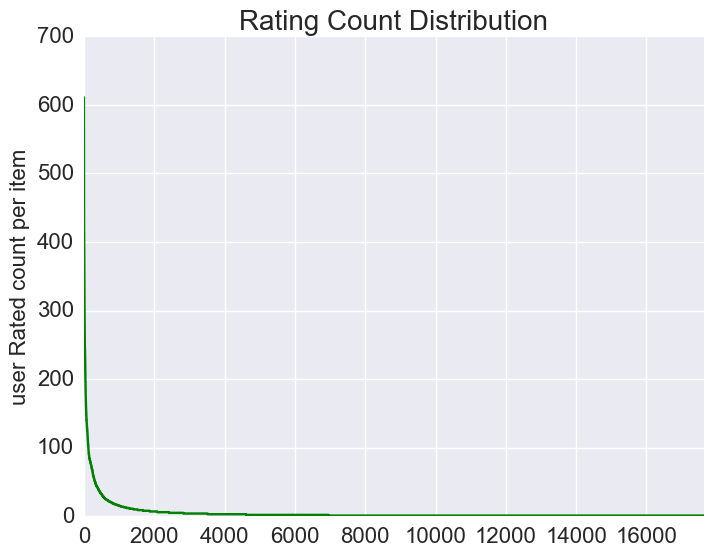
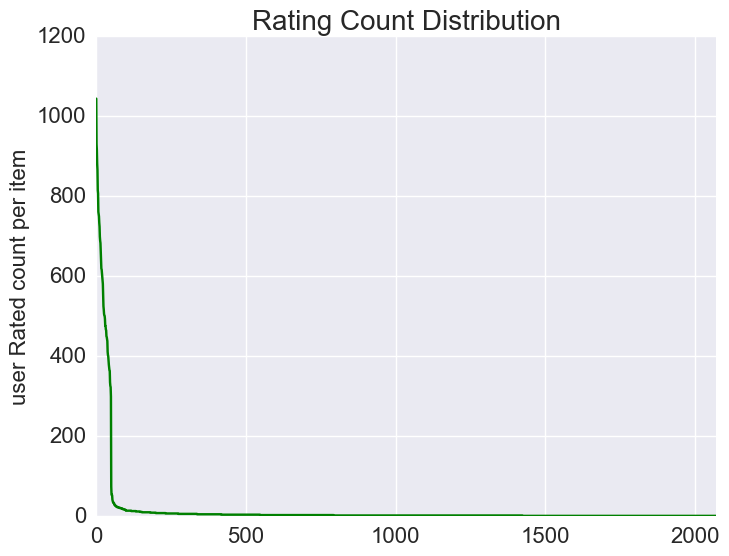
add robustness

diff --git a/visual/visualization/analysis.html b/visual/visualization/analysis.html
@@ -2,9 +2,9 @@
 <link rel='stylesheet' type='text/css' href='reportStyle.css'/></head>
 <body><div class='reportTitle'><div class='in'>Data Analysis</div></div>
 <div class='main'><div class='area1'>
-<div class='title'><h3>Data Files</h3></div><div class='text'>Rating Data: C:\Users\Yu\Desktop\RecQ\dataset\lastfm-2k\user_artists.dat<br>Social Data: C:\Users\Yu\Desktop\RecQ\dataset\FilmTrust\trust.txt</div></div><div style='padding-top:20px'><center><img src='images/header2.png'/></center></div>
+<div class='title'><h3>Data Files</h3></div><div class='text'>Rating Data: C:\Users\Yu\Desktop\RecQ\dataset\FilmTrust\ratings.txt<br>Social Data: C:\Users\Yu\Desktop\RecQ\dataset\FilmTrust\trust.txt</div></div><div style='padding-top:20px'><center><img src='images/header2.png'/></center></div>
 <div class='area1'><div class='title'><h3>Rating Data</h3></div>
-<div class='text'>Rating Scale: 1.0 2.0 3.0 4.0 5.0 6.0 7.0 8.0 9.0 10.0 11.0 12.0 13.0 14.0 15.0 16.0 17.0 18.0 19.0 20.0 21.0 22.0 23.0 24.0 25.0 26.0 27.0 28.0 29.0 30.0 31.0 32.0 33.0 34.0 35.0 36.0 37.0 38.0 39.0 40.0 41.0 42.0 43.0 44.0 45.0 46.0 47.0 48.0 49.0 50.0 51.0 52.0 53.0 54.0 55.0 56.0 57.0 58.0 59.0 60.0 61.0 62.0 63.0 64.0 65.0 66.0 67.0 68.0 69.0 70.0 71.0 72.0 73.0 74.0 75.0 76.0 77.0 78.0 79.0 80.0 81.0 82.0 83.0 84.0 85.0 86.0 87.0 88.0 89.0 90.0 91.0 92.0 93.0 94.0 95.0 96.0 97.0 98.0 99.0 100.0 101.0 102.0 103.0 104.0 105.0 106.0 107.0 108.0 109.0 110.0 111.0 112.0 113.0 114.0 115.0 116.0 117.0 118.0 119.0 120.0 121.0 122.0 123.0 124.0 125.0 126.0 127.0 128.0 129.0 130.0 131.0 132.0 133.0 134.0 135.0 136.0 137.0 138.0 139.0 140.0 141.0 142.0 143.0 144.0 145.0 146.0 147.0 148.0 149.0 150.0 151.0 152.0 153.0 154.0 155.0 156.0 157.0 158.0 159.0 160.0 161.0 162.0 163.0 164.0 165.0 166.0 167.0 168.0 169.0 170.0 171.0 172.0 173.0 174.0 175.0 176.0 177.0 178.0 179.0 180.0 181.0 182.0 183.0 184.0 185.0 186.0 187.0 188.0 189.0 190.0 191.0 192.0 193.0 194.0 195.0 196.0 197.0 198.0 199.0 200.0 201.0 202.0 203.0 204.0 205.0 206.0 207.0 208.0 209.0 210.0 211.0 212.0 213.0 214.0 215.0 216.0 217.0 218.0 219.0 220.0 221.0 222.0 223.0 224.0 225.0 226.0 227.0 228.0 229.0 230.0 231.0 232.0 233.0 234.0 235.0 236.0 237.0 238.0 239.0 240.0 241.0 242.0 243.0 244.0 245.0 246.0 247.0 248.0 249.0 250.0 251.0 252.0 253.0 254.0 255.0 256.0 257.0 258.0 259.0 260.0 261.0 262.0 263.0 264.0 265.0 266.0 267.0 268.0 269.0 270.0 271.0 272.0 273.0 274.0 275.0 276.0 277.0 278.0 279.0 280.0 281.0 282.0 283.0 284.0 285.0 286.0 287.0 288.0 289.0 290.0 291.0 292.0 293.0 294.0 295.0 296.0 297.0 298.0 299.0 300.0 301.0 302.0 303.0 304.0 305.0 306.0 307.0 308.0 309.0 310.0 311.0 312.0 313.0 314.0 315.0 316.0 317.0 318.0 319.0 320.0 321.0 322.0 323.0 324.0 325.0 326.0 327.0 328.0 329.0 330.0 331.0 332.0 333.0 334.0 335.0 336.0 337.0 338.0 339.0 340.0 341.0 342.0 343.0 344.0 345.0 346.0 347.0 348.0 349.0 350.0 351.0 352.0 353.0 354.0 355.0 356.0 357.0 358.0 359.0 360.0 361.0 362.0 363.0 364.0 365.0 366.0 367.0 368.0 369.0 370.0 371.0 372.0 373.0 374.0 375.0 376.0 377.0 378.0 379.0 380.0 381.0 382.0 383.0 384.0 385.0 386.0 387.0 388.0 389.0 390.0 391.0 392.0 393.0 394.0 395.0 396.0 397.0 398.0 399.0 400.0 401.0 402.0 403.0 404.0 405.0 406.0 407.0 408.0 409.0 410.0 411.0 412.0 413.0 414.0 415.0 416.0 417.0 418.0 419.0 420.0 421.0 422.0 423.0 424.0 425.0 426.0 427.0 428.0 429.0 430.0 431.0 432.0 433.0 434.0 435.0 436.0 437.0 438.0 439.0 440.0 441.0 442.0 443.0 444.0 445.0 446.0 447.0 448.0 449.0 450.0 451.0 452.0 453.0 454.0 455.0 456.0 457.0 458.0 459.0 460.0 461.0 462.0 463.0 464.0 465.0 466.0 467.0 468.0 469.0 470.0 471.0 472.0 473.0 474.0 475.0 476.0 477.0 478.0 479.0 480.0 481.0 482.0 483.0 484.0 485.0 486.0 487.0 488.0 489.0 490.0 491.0 492.0 493.0 494.0 495.0 496.0 497.0 498.0 499.0 500.0 501.0 502.0 503.0 504.0 505.0 506.0 507.0 508.0 509.0 510.0 511.0 512.0 513.0 514.0 515.0 516.0 517.0 518.0 519.0 520.0 521.0 522.0 523.0 524.0 525.0 526.0 527.0 528.0 529.0 530.0 531.0 532.0 533.0 534.0 535.0 536.0 537.0 538.0 539.0 540.0 541.0 542.0 543.0 544.0 545.0 546.0 547.0 548.0 549.0 550.0 551.0 552.0 553.0 554.0 555.0 556.0 557.0 558.0 559.0 560.0 561.0 562.0 563.0 564.0 565.0 566.0 567.0 568.0 569.0 570.0 571.0 572.0 573.0 574.0 575.0 576.0 577.0 578.0 579.0 580.0 581.0 582.0 583.0 584.0 585.0 586.0 587.0 588.0 589.0 590.0 591.0 592.0 593.0 594.0 595.0 596.0 597.0 598.0 599.0 600.0 601.0 602.0 603.0 604.0 605.0 606.0 607.0 608.0 609.0 610.0 611.0 612.0 613.0 614.0 615.0 616.0 617.0 618.0 619.0 620.0 621.0 622.0 623.0 624.0 625.0 626.0 627.0 628.0 629.0 630.0 631.0 632.0 633.0 634.0 635.0 636.0 637.0 638.0 639.0 640.0 641.0 642.0 643.0 644.0 645.0 646.0 647.0 648.0 649.0 650.0 651.0 652.0 653.0 654.0 655.0 656.0 657.0 658.0 659.0 660.0 661.0 662.0 663.0 664.0 665.0 666.0 667.0 668.0 669.0 670.0 671.0 672.0 673.0 674.0 675.0 676.0 677.0 678.0 679.0 680.0 681.0 682.0 683.0 684.0 685.0 686.0 687.0 688.0 689.0 690.0 691.0 692.0 693.0 694.0 695.0 696.0 697.0 698.0 699.0 700.0 701.0 702.0 703.0 704.0 705.0 706.0 707.0 708.0 709.0 710.0 711.0 712.0 713.0 714.0 715.0 716.0 717.0 718.0 719.0 720.0 721.0 722.0 723.0 724.0 725.0 726.0 727.0 728.0 729.0 730.0 731.0 732.0 733.0 734.0 735.0 736.0 737.0 738.0 739.0 740.0 741.0 742.0 743.0 744.0 745.0 746.0 747.0 748.0 749.0 750.0 751.0 752.0 753.0 754.0 755.0 756.0 757.0 758.0 759.0 760.0 761.0 762.0 763.0 764.0 765.0 766.0 767.0 768.0 769.0 770.0 771.0 772.0 773.0 774.0 775.0 776.0 777.0 778.0 779.0 780.0 781.0 782.0 783.0 784.0 785.0 786.0 787.0 788.0 789.0 790.0 791.0 792.0 793.0 794.0 795.0 796.0 797.0 798.0 799.0 800.0 801.0 802.0 803.0 804.0 805.0 806.0 807.0 808.0 809.0 810.0 811.0 812.0 813.0 814.0 815.0 816.0 817.0 818.0 819.0 820.0 821.0 822.0 823.0 824.0 825.0 826.0 827.0 828.0 829.0 830.0 831.0 832.0 833.0 834.0 835.0 836.0 837.0 838.0 839.0 840.0 841.0 842.0 843.0 844.0 845.0 846.0 847.0 848.0 849.0 850.0 851.0 852.0 853.0 854.0 855.0 856.0 857.0 858.0 859.0 860.0 861.0 862.0 863.0 864.0 865.0 866.0 867.0 868.0 869.0 870.0 871.0 872.0 873.0 874.0 875.0 876.0 877.0 878.0 879.0 880.0 881.0 882.0 883.0 884.0 885.0 886.0 887.0 888.0 889.0 890.0 891.0 892.0 893.0 894.0 895.0 896.0 897.0 898.0 899.0 900.0 901.0 902.0 903.0 904.0 905.0 906.0 907.0 908.0 909.0 910.0 911.0 912.0 913.0 914.0 915.0 916.0 917.0 918.0 919.0 920.0 921.0 922.0 923.0 924.0 925.0 926.0 927.0 928.0 929.0 930.0 931.0 932.0 933.0 934.0 935.0 936.0 937.0 938.0 939.0 940.0 941.0 942.0 943.0 944.0 945.0 946.0 947.0 948.0 949.0 950.0 951.0 952.0 953.0 954.0 955.0 956.0 957.0 958.0 959.0 960.0 961.0 962.0 963.0 964.0 965.0 966.0 967.0 968.0 969.0 970.0 971.0 972.0 973.0 974.0 975.0 976.0 977.0 978.0 979.0 980.0 981.0 982.0 983.0 984.0 985.0 986.0 987.0 988.0 989.0 990.0 991.0 992.0 993.0 994.0 995.0 996.0 997.0 998.0 999.0 1000.0 1001.0 1002.0 1003.0 1004.0 1005.0 1006.0 1007.0 1008.0 1009.0 1010.0 1011.0 1012.0 1013.0 1014.0 1015.0 1016.0 1017.0 1018.0 1019.0 1020.0 1021.0 1022.0 1023.0 1024.0 1025.0 1026.0 1027.0 1028.0 1029.0 1030.0 1031.0 1032.0 1033.0 1034.0 1035.0 1036.0 1037.0 1038.0 1039.0 1040.0 1041.0 1042.0 1043.0 1044.0 1045.0 1046.0 1047.0 1048.0 1049.0 1050.0 1051.0 1052.0 1053.0 1054.0 1055.0 1056.0 1057.0 1058.0 1059.0 1060.0 1061.0 1062.0 1063.0 1064.0 1065.0 1066.0 1067.0 1068.0 1069.0 1070.0 1071.0 1072.0 1073.0 1074.0 1075.0 1076.0 1077.0 1078.0 1079.0 1080.0 1081.0 1082.0 1083.0 1084.0 1085.0 1086.0 1087.0 1088.0 1089.0 1090.0 1091.0 1092.0 1093.0 1094.0 1095.0 1096.0 1097.0 1098.0 1099.0 1100.0 1101.0 1102.0 1103.0 1104.0 1105.0 1106.0 1107.0 1108.0 1109.0 1110.0 1111.0 1112.0 1113.0 1114.0 1115.0 1116.0 1117.0 1118.0 1119.0 1120.0 1121.0 1122.0 1123.0 1124.0 1125.0 1126.0 1127.0 1128.0 1129.0 1130.0 1131.0 1132.0 1133.0 1134.0 1135.0 1136.0 1137.0 1138.0 1139.0 1140.0 1141.0 1142.0 1143.0 1144.0 1145.0 1146.0 1147.0 1148.0 1149.0 1150.0 1151.0 1152.0 1153.0 1154.0 1155.0 1156.0 1157.0 1158.0 1159.0 1160.0 1161.0 1162.0 1163.0 1164.0 1165.0 1166.0 1167.0 1168.0 1169.0 1170.0 1171.0 1172.0 1173.0 1174.0 1175.0 1176.0 1177.0 1178.0 1179.0 1180.0 1181.0 1182.0 1183.0 1184.0 1185.0 1186.0 1187.0 1188.0 1189.0 1190.0 1191.0 1192.0 1193.0 1194.0 1195.0 1196.0 1197.0 1198.0 1199.0 1200.0 1201.0 1202.0 1203.0 1204.0 1205.0 1206.0 1207.0 1208.0 1209.0 1210.0 1211.0 1212.0 1213.0 1214.0 1215.0 1216.0 1217.0 1218.0 1219.0 1220.0 1221.0 1222.0 1223.0 1224.0 1225.0 1226.0 1227.0 1228.0 1229.0 1230.0 1231.0 1232.0 1233.0 1234.0 1235.0 1236.0 1237.0 1238.0 1239.0 1240.0 1241.0 1242.0 1243.0 1244.0 1245.0 1246.0 1247.0 1248.0 1249.0 1250.0 1251.0 1252.0 1253.0 1254.0 1255.0 1256.0 1257.0 1258.0 1259.0 1260.0 1261.0 1262.0 1263.0 1264.0 1265.0 1266.0 1267.0 1268.0 1269.0 1270.0 1271.0 1272.0 1273.0 1274.0 1275.0 1276.0 1277.0 1278.0 1279.0 1280.0 1281.0 1282.0 1283.0 1284.0 1285.0 1286.0 1287.0 1288.0 1289.0 1290.0 1291.0 1292.0 1293.0 1294.0 1295.0 1296.0 1297.0 1298.0 1299.0 1300.0 1301.0 1302.0 1303.0 1304.0 1305.0 1306.0 1307.0 1308.0 1309.0 1310.0 1311.0 1312.0 1313.0 1314.0 1315.0 1316.0 1317.0 1318.0 1319.0 1320.0 1321.0 1322.0 1323.0 1324.0 1325.0 1326.0 1327.0 1328.0 1329.0 1330.0 1331.0 1332.0 1333.0 1334.0 1335.0 1336.0 1337.0 1338.0 1339.0 1340.0 1341.0 1342.0 1343.0 1344.0 1345.0 1346.0 1347.0 1348.0 1349.0 1350.0 1351.0 1352.0 1353.0 1354.0 1355.0 1356.0 1357.0 1358.0 1359.0 1360.0 1361.0 1362.0 1363.0 1364.0 1365.0 1366.0 1367.0 1368.0 1369.0 1370.0 1371.0 1372.0 1373.0 1374.0 1375.0 1376.0 1377.0 1378.0 1379.0 1380.0 1381.0 1382.0 1383.0 1384.0 1385.0 1386.0 1387.0 1388.0 1389.0 1390.0 1391.0 1392.0 1393.0 1394.0 1395.0 1396.0 1397.0 1398.0 1399.0 1400.0 1401.0 1402.0 1403.0 1404.0 1405.0 1406.0 1407.0 1408.0 1409.0 1410.0 1411.0 1412.0 1413.0 1414.0 1415.0 1416.0 1417.0 1418.0 1419.0 1420.0 1421.0 1422.0 1423.0 1424.0 1425.0 1426.0 1427.0 1428.0 1429.0 1430.0 1431.0 1432.0 1433.0 1434.0 1435.0 1436.0 1437.0 1438.0 1439.0 1440.0 1441.0 1442.0 1443.0 1444.0 1445.0 1446.0 1447.0 1448.0 1449.0 1450.0 1451.0 1452.0 1453.0 1454.0 1455.0 1456.0 1457.0 1458.0 1459.0 1460.0 1461.0 1462.0 1463.0 1464.0 1465.0 1466.0 1467.0 1468.0 1469.0 1470.0 1471.0 1472.0 1473.0 1474.0 1475.0 1476.0 1477.0 1478.0 1479.0 1480.0 1481.0 1482.0 1483.0 1484.0 1485.0 1486.0 1487.0 1488.0 1489.0 1490.0 1491.0 1492.0 1493.0 1494.0 1495.0 1496.0 1497.0 1498.0 1499.0 1500.0 1501.0 1502.0 1503.0 1504.0 1505.0 1506.0 1507.0 1508.0 1509.0 1510.0 1511.0 1512.0 1513.0 1514.0 1515.0 1516.0 1517.0 1518.0 1519.0 1520.0 1521.0 1522.0 1523.0 1524.0 1525.0 1526.0 1527.0 1528.0 1529.0 1530.0 1531.0 1532.0 1533.0 1534.0 1535.0 1536.0 1537.0 1538.0 1539.0 1540.0 1541.0 1542.0 1543.0 1544.0 1545.0 1546.0 1547.0 1548.0 1549.0 1550.0 1551.0 1552.0 1553.0 1554.0 1555.0 1556.0 1557.0 1558.0 1559.0 1560.0 1561.0 1562.0 1563.0 1564.0 1565.0 1566.0 1567.0 1568.0 1569.0 1570.0 1571.0 1572.0 1573.0 1574.0 1575.0 1576.0 1577.0 1578.0 1579.0 1580.0 1581.0 1582.0 1583.0 1584.0 1585.0 1586.0 1587.0 1588.0 1589.0 1590.0 1591.0 1592.0 1593.0 1594.0 1595.0 1596.0 1597.0 1598.0 1599.0 1600.0 1601.0 1602.0 1603.0 1604.0 1605.0 1606.0 1607.0 1608.0 1609.0 1610.0 1611.0 1612.0 1613.0 1614.0 1615.0 1616.0 1617.0 1618.0 1619.0 1620.0 1621.0 1622.0 1623.0 1624.0 1625.0 1626.0 1627.0 1628.0 1629.0 1630.0 1631.0 1632.0 1633.0 1634.0 1635.0 1636.0 1637.0 1638.0 1639.0 1640.0 1641.0 1642.0 1643.0 1644.0 1645.0 1646.0 1647.0 1648.0 1649.0 1650.0 1651.0 1652.0 1653.0 1654.0 1655.0 1656.0 1657.0 1658.0 1659.0 1660.0 1661.0 1662.0 1663.0 1664.0 1665.0 1666.0 1667.0 1668.0 1669.0 1670.0 1671.0 1672.0 1673.0 1674.0 1675.0 1676.0 1677.0 1678.0 1679.0 1680.0 1681.0 1682.0 1683.0 1684.0 1685.0 1686.0 1687.0 1688.0 1689.0 1690.0 1691.0 1692.0 1693.0 1694.0 1695.0 1696.0 1697.0 1698.0 1699.0 1700.0 1701.0 1702.0 1703.0 1704.0 1705.0 1706.0 1707.0 1708.0 1709.0 1710.0 1711.0 1712.0 1713.0 1714.0 1715.0 1716.0 1717.0 1718.0 1719.0 1720.0 1721.0 1722.0 1723.0 1724.0 1725.0 1726.0 1727.0 1728.0 1729.0 1730.0 1731.0 1732.0 1733.0 1734.0 1735.0 1736.0 1737.0 1738.0 1739.0 1740.0 1741.0 1742.0 1743.0 1744.0 1745.0 1746.0 1747.0 1748.0 1749.0 1750.0 1751.0 1752.0 1753.0 1754.0 1755.0 1756.0 1757.0 1758.0 1759.0 1760.0 1761.0 1762.0 1763.0 1764.0 1765.0 1766.0 1767.0 1768.0 1769.0 1770.0 1771.0 1772.0 1773.0 1774.0 1775.0 1776.0 1777.0 1778.0 1779.0 1780.0 1781.0 1782.0 1783.0 1784.0 1785.0 1786.0 1787.0 1788.0 1789.0 1790.0 1791.0 1792.0 1793.0 1794.0 1795.0 1796.0 1797.0 1798.0 1799.0 1800.0 1801.0 1802.0 1803.0 1804.0 1805.0 1806.0 1807.0 1808.0 1809.0 1810.0 1811.0 1812.0 1813.0 1814.0 1815.0 1816.0 1817.0 1818.0 1819.0 1820.0 1821.0 1822.0 1823.0 1824.0 1825.0 1826.0 1827.0 1828.0 1829.0 1831.0 1832.0 1833.0 1834.0 1835.0 1836.0 1837.0 1838.0 1839.0 1840.0 1841.0 1842.0 1843.0 1844.0 1845.0 1846.0 1847.0 1848.0 1849.0 1850.0 1851.0 1852.0 1853.0 1854.0 1855.0 1856.0 1857.0 1858.0 1859.0 1860.0 1861.0 1862.0 1863.0 1864.0 1865.0 1866.0 1867.0 1868.0 1869.0 1870.0 1871.0 1872.0 1873.0 1874.0 1875.0 1876.0 1877.0 1878.0 1879.0 1880.0 1881.0 1882.0 1883.0 1884.0 1885.0 1886.0 1888.0 1889.0 1890.0 1891.0 1892.0 1893.0 1894.0 1895.0 1896.0 1897.0 1898.0 1899.0 1901.0 1902.0 1903.0 1904.0 1905.0 1906.0 1907.0 1908.0 1909.0 1910.0 1911.0 1912.0 1913.0 1914.0 1915.0 1916.0 1917.0 1918.0 1919.0 1920.0 1921.0 1922.0 1923.0 1924.0 1925.0 1927.0 1928.0 1929.0 1930.0 1931.0 1932.0 1933.0 1934.0 1935.0 1936.0 1937.0 1938.0 1939.0 1940.0 1941.0 1942.0 1943.0 1944.0 1945.0 1946.0 1947.0 1948.0 1949.0 1950.0 1951.0 1952.0 1953.0 1954.0 1955.0 1956.0 1957.0 1958.0 1959.0 1960.0 1961.0 1962.0 1963.0 1964.0 1965.0 1966.0 1967.0 1968.0 1969.0 1970.0 1971.0 1972.0 1973.0 1974.0 1975.0 1976.0 1977.0 1978.0 1979.0 1980.0 1981.0 1982.0 1983.0 1984.0 1985.0 1986.0 1987.0 1988.0 1989.0 1990.0 1991.0 1992.0 1993.0 1994.0 1995.0 1996.0 1997.0 1998.0 1999.0 2000.0 2001.0 2002.0 2003.0 2004.0 2005.0 2006.0 2007.0 2008.0 2009.0 2010.0 2011.0 2012.0 2013.0 2014.0 2015.0 2016.0 2017.0 2018.0 2019.0 2020.0 2021.0 2022.0 2023.0 2024.0 2025.0 2026.0 2027.0 2028.0 2029.0 2030.0 2031.0 2032.0 2033.0 2034.0 2035.0 2036.0 2037.0 2038.0 2039.0 2040.0 2041.0 2042.0 2043.0 2044.0 2045.0 2046.0 2047.0 2048.0 2049.0 2050.0 2051.0 2052.0 2053.0 2054.0 2055.0 2056.0 2057.0 2058.0 2060.0 2061.0 2062.0 2063.0 2064.0 2066.0 2067.0 2068.0 2069.0 2070.0 2071.0 2072.0 2073.0 2074.0 2075.0 2076.0 2077.0 2078.0 2079.0 2081.0 2082.0 2083.0 2084.0 2085.0 2086.0 2087.0 2088.0 2089.0 2090.0 2091.0 2092.0 2093.0 2094.0 2095.0 2096.0 2097.0 2098.0 2099.0 2100.0 2101.0 2102.0 2103.0 2104.0 2107.0 2108.0 2109.0 2110.0 2111.0 2112.0 2113.0 2114.0 2115.0 2116.0 2117.0 2118.0 2119.0 2120.0 2121.0 2122.0 2123.0 2124.0 2125.0 2126.0 2127.0 2128.0 2129.0 2130.0 2131.0 2132.0 2134.0 2135.0 2136.0 2137.0 2138.0 2139.0 2140.0 2141.0 2142.0 2143.0 2144.0 2145.0 2146.0 2147.0 2148.0 2149.0 2150.0 2151.0 2152.0 2153.0 2154.0 2155.0 2156.0 2157.0 2158.0 2159.0 2160.0 2161.0 2162.0 2163.0 2164.0 2165.0 2166.0 2167.0 2168.0 2169.0 2170.0 2172.0 2173.0 2174.0 2175.0 2176.0 2177.0 2178.0 2179.0 2180.0 2181.0 2182.0 2183.0 2184.0 2185.0 2186.0 2187.0 2188.0 2190.0 2191.0 2192.0 2194.0 2196.0 2197.0 2199.0 2200.0 2201.0 2202.0 2203.0 2204.0 2205.0 2206.0 2207.0 2208.0 2209.0 2210.0 2211.0 2212.0 2213.0 2214.0 2215.0 2216.0 2217.0 2218.0 2219.0 2220.0 2221.0 2222.0 2223.0 2224.0 2225.0 2226.0 2227.0 2228.0 2229.0 2230.0 2231.0 2232.0 2233.0 2234.0 2235.0 2236.0 2237.0 2238.0 2239.0 2240.0 2241.0 2242.0 2243.0 2244.0 2245.0 2246.0 2247.0 2248.0 2249.0 2250.0 2251.0 2252.0 2253.0 2254.0 2255.0 2256.0 2257.0 2258.0 2259.0 2260.0 2261.0 2262.0 2264.0 2265.0 2266.0 2268.0 2269.0 2270.0 2271.0 2273.0 2274.0 2275.0 2276.0 2277.0 2278.0 2279.0 2280.0 2281.0 2282.0 2283.0 2284.0 2285.0 2286.0 2287.0 2288.0 2289.0 2290.0 2291.0 2292.0 2293.0 2294.0 2295.0 2297.0 2298.0 2299.0 2300.0 2301.0 2302.0 2303.0 2304.0 2305.0 2306.0 2307.0 2308.0 2309.0 2310.0 2311.0 2312.0 2313.0 2314.0 2315.0 2316.0 2317.0 2318.0 2319.0 2320.0 2321.0 2322.0 2323.0 2324.0 2325.0 2326.0 2327.0 2328.0 2329.0 2330.0 2331.0 2332.0 2333.0 2334.0 2335.0 2336.0 2337.0 2338.0 2339.0 2340.0 2341.0 2342.0 2343.0 2344.0 2345.0 2346.0 2347.0 2348.0 2349.0 2350.0 2351.0 2352.0 2354.0 2355.0 2356.0 2358.0 2359.0 2360.0 2361.0 2362.0 2363.0 2364.0 2365.0 2366.0 2367.0 2368.0 2369.0 2370.0 2371.0 2372.0 2373.0 2374.0 2375.0 2376.0 2377.0 2378.0 2379.0 2380.0 2381.0 2382.0 2383.0 2385.0 2386.0 2387.0 2388.0 2389.0 2390.0 2391.0 2392.0 2393.0 2394.0 2395.0 2396.0 2397.0 2398.0 2400.0 2401.0 2402.0 2403.0 2404.0 2405.0 2406.0 2407.0 2408.0 2409.0 2410.0 2411.0 2413.0 2414.0 2416.0 2417.0 2418.0 2419.0 2420.0 2421.0 2423.0 2424.0 2425.0 2426.0 2427.0 2428.0 2429.0 2430.0 2431.0 2432.0 2433.0 2434.0 2435.0 2436.0 2437.0 2438.0 2439.0 2440.0 2441.0 2442.0 2443.0 2444.0 2445.0 2446.0 2447.0 2448.0 2449.0 2451.0 2452.0 2453.0 2455.0 2456.0 2457.0 2458.0 2459.0 2460.0 2461.0 2462.0 2463.0 2464.0 2465.0 2466.0 2467.0 2468.0 2469.0 2470.0 2471.0 2472.0 2473.0 2474.0 2475.0 2477.0 2478.0 2479.0 2480.0 2481.0 2482.0 2484.0 2485.0 2486.0 2487.0 2488.0 2489.0 2490.0 2491.0 2492.0 2493.0 2495.0 2496.0 2497.0 2498.0 2499.0 2500.0 2501.0 2502.0 2503.0 2504.0 2505.0 2506.0 2507.0 2508.0 2509.0 2510.0 2511.0 2512.0 2513.0 2514.0 2515.0 2516.0 2517.0 2518.0 2519.0 2520.0 2521.0 2523.0 2524.0 2525.0 2526.0 2527.0 2528.0 2529.0 2530.0 2531.0 2532.0 2533.0 2534.0 2536.0 2538.0 2539.0 2540.0 2541.0 2542.0 2543.0 2544.0 2545.0 2546.0 2547.0 2548.0 2549.0 2550.0 2551.0 2552.0 2553.0 2554.0 2555.0 2556.0 2557.0 2558.0 2559.0 2560.0 2561.0 2562.0 2563.0 2564.0 2565.0 2566.0 2568.0 2569.0 2570.0 2571.0 2572.0 2573.0 2574.0 2576.0 2577.0 2578.0 2579.0 2580.0 2581.0 2582.0 2584.0 2586.0 2587.0 2588.0 2589.0 2590.0 2591.0 2592.0 2595.0 2596.0 2597.0 2598.0 2599.0 2600.0 2601.0 2602.0 2603.0 2605.0 2606.0 2607.0 2608.0 2609.0 2610.0 2611.0 2612.0 2613.0 2614.0 2615.0 2616.0 2617.0 2618.0 2619.0 2620.0 2621.0 2622.0 2623.0 2624.0 2625.0 2626.0 2627.0 2628.0 2629.0 2630.0 2631.0 2633.0 2634.0 2635.0 2636.0 2637.0 2638.0 2639.0 2640.0 2641.0 2642.0 2643.0 2644.0 2645.0 2646.0 2647.0 2648.0 2650.0 2651.0 2652.0 2653.0 2654.0 2655.0 2656.0 2658.0 2659.0 2660.0 2661.0 2662.0 2665.0 2666.0 2667.0 2668.0 2669.0 2670.0 2671.0 2672.0 2673.0 2674.0 2676.0 2677.0 2678.0 2679.0 2680.0 2683.0 2684.0 2686.0 2687.0 2688.0 2689.0 2690.0 2691.0 2692.0 2693.0 2694.0 2695.0 2696.0 2697.0 2699.0 2702.0 2703.0 2704.0 2705.0 2706.0 2707.0 2708.0 2710.0 2711.0 2712.0 2713.0 2715.0 2716.0 2717.0 2718.0 2719.0 2720.0 2721.0 2722.0 2723.0 2724.0 2725.0 2726.0 2727.0 2728.0 2729.0 2730.0 2731.0 2732.0 2734.0 2735.0 2736.0 2737.0 2738.0 2739.0 2740.0 2741.0 2742.0 2743.0 2744.0 2745.0 2746.0 2749.0 2750.0 2751.0 2753.0 2755.0 2757.0 2758.0 2759.0 2760.0 2762.0 2764.0 2765.0 2766.0 2767.0 2768.0 2770.0 2772.0 2773.0 2775.0 2776.0 2777.0 2778.0 2779.0 2780.0 2781.0 2782.0 2783.0 2784.0 2786.0 2787.0 2788.0 2789.0 2790.0 2793.0 2794.0 2795.0 2797.0 2798.0 2799.0 2800.0 2801.0 2804.0 2805.0 2806.0 2808.0 2809.0 2812.0 2813.0 2814.0 2818.0 2819.0 2821.0 2822.0 2823.0 2824.0 2825.0 2826.0 2827.0 2828.0 2830.0 2832.0 2833.0 2834.0 2835.0 2836.0 2837.0 2838.0 2840.0 2841.0 2842.0 2843.0 2844.0 2845.0 2846.0 2847.0 2848.0 2849.0 2850.0 2852.0 2853.0 2854.0 2855.0 2856.0 2857.0 2858.0 2859.0 2860.0 2861.0 2862.0 2863.0 2864.0 2865.0 2866.0 2868.0 2869.0 2870.0 2871.0 2873.0 2874.0 2876.0 2877.0 2879.0 2880.0 2881.0 2882.0 2883.0 2884.0 2887.0 2888.0 2889.0 2890.0 2891.0 2892.0 2893.0 2895.0 2896.0 2897.0 2898.0 2899.0 2900.0 2901.0 2902.0 2903.0 2904.0 2905.0 2906.0 2908.0 2909.0 2910.0 2911.0 2912.0 2913.0 2914.0 2918.0 2919.0 2921.0 2922.0 2923.0 2924.0 2925.0 2927.0 2928.0 2929.0 2930.0 2931.0 2932.0 2933.0 2935.0 2936.0 2937.0 2938.0 2939.0 2941.0 2942.0 2944.0 2946.0 2947.0 2948.0 2949.0 2951.0 2952.0 2953.0 2954.0 2955.0 2956.0 2960.0 2961.0 2962.0 2963.0 2964.0 2965.0 2967.0 2968.0 2969.0 2971.0 2972.0 2973.0 2974.0 2975.0 2976.0 2977.0 2978.0 2980.0 2981.0 2984.0 2985.0 2986.0 2987.0 2989.0 2990.0 2991.0 2992.0 2993.0 2994.0 2996.0 2998.0 2999.0 3000.0 3001.0 3002.0 3003.0 3004.0 3005.0 3006.0 3007.0 3008.0 3009.0 3010.0 3011.0 3014.0 3015.0 3016.0 3017.0 3018.0 3019.0 3020.0 3021.0 3022.0 3023.0 3024.0 3025.0 3026.0 3028.0 3030.0 3032.0 3033.0 3035.0 3036.0 3037.0 3039.0 3040.0 3041.0 3042.0 3043.0 3044.0 3045.0 3046.0 3048.0 3049.0 3050.0 3052.0 3054.0 3058.0 3059.0 3061.0 3062.0 3065.0 3066.0 3067.0 3068.0 3069.0 3070.0 3071.0 3072.0 3074.0 3075.0 3077.0 3080.0 3081.0 3083.0 3084.0 3085.0 3086.0 3087.0 3088.0 3089.0 3092.0 3095.0 3096.0 3097.0 3098.0 3100.0 3104.0 3105.0 3106.0 3107.0 3109.0 3110.0 3111.0 3112.0 3113.0 3114.0 3115.0 3116.0 3118.0 3119.0 3120.0 3121.0 3122.0 3123.0 3124.0 3125.0 3126.0 3127.0 3128.0 3129.0 3130.0 3131.0 3132.0 3133.0 3134.0 3136.0 3138.0 3139.0 3141.0 3142.0 3143.0 3144.0 3146.0 3147.0 3148.0 3149.0 3150.0 3151.0 3152.0 3153.0 3154.0 3156.0 3157.0 3158.0 3159.0 3160.0 3161.0 3163.0 3164.0 3166.0 3167.0 3169.0 3170.0 3171.0 3172.0 3173.0 3175.0 3176.0 3177.0 3178.0 3179.0 3181.0 3183.0 3184.0 3185.0 3186.0 3187.0 3189.0 3190.0 3191.0 3193.0 3195.0 3196.0 3197.0 3199.0 3200.0 3202.0 3203.0 3205.0 3206.0 3207.0 3208.0 3210.0 3213.0 3215.0 3216.0 3217.0 3218.0 3220.0 3221.0 3223.0 3224.0 3225.0 3226.0 3227.0 3229.0 3230.0 3232.0 3234.0 3235.0 3237.0 3239.0 3240.0 3241.0 3242.0 3244.0 3245.0 3246.0 3247.0 3248.0 3249.0 3251.0 3252.0 3253.0 3254.0 3255.0 3257.0 3258.0 3260.0 3261.0 3262.0 3263.0 3264.0 3265.0 3266.0 3267.0 3268.0 3269.0 3270.0 3271.0 3272.0 3273.0 3274.0 3275.0 3277.0 3278.0 3279.0 3280.0 3281.0 3286.0 3287.0 3288.0 3290.0 3291.0 3292.0 3293.0 3294.0 3295.0 3296.0 3300.0 3301.0 3302.0 3303.0 3304.0 3305.0 3307.0 3309.0 3310.0 3311.0 3312.0 3313.0 3314.0 3315.0 3318.0 3319.0 3320.0 3321.0 3323.0 3325.0 3326.0 3329.0 3331.0 3332.0 3333.0 3336.0 3338.0 3341.0 3343.0 3344.0 3347.0 3348.0 3349.0 3350.0 3352.0 3353.0 3354.0 3360.0 3361.0 3363.0 3364.0 3365.0 3366.0 3367.0 3369.0 3371.0 3372.0 3373.0 3374.0 3375.0 3376.0 3377.0 3379.0 3380.0 3381.0 3382.0 3384.0 3386.0 3388.0 3390.0 3391.0 3392.0 3393.0 3395.0 3396.0 3397.0 3398.0 3399.0 3400.0 3401.0 3403.0 3404.0 3405.0 3406.0 3407.0 3409.0 3411.0 3413.0 3416.0 3417.0 3418.0 3420.0 3422.0 3423.0 3425.0 3426.0 3428.0 3430.0 3434.0 3435.0 3436.0 3437.0 3439.0 3440.0 3443.0 3444.0 3445.0 3446.0 3448.0 3450.0 3455.0 3456.0 3457.0 3458.0 3459.0 3460.0 3462.0 3463.0 3465.0 3466.0 3468.0 3469.0 3470.0 3471.0 3472.0 3474.0 3475.0 3476.0 3477.0 3480.0 3481.0 3483.0 3484.0 3485.0 3486.0 3487.0 3488.0 3490.0 3491.0 3493.0 3496.0 3497.0 3498.0 3499.0 3500.0 3501.0 3502.0 3503.0 3504.0 3505.0 3506.0 3507.0 3510.0 3511.0 3512.0 3513.0 3515.0 3516.0 3517.0 3518.0 3519.0 3520.0 3521.0 3522.0 3523.0 3524.0 3526.0 3529.0 3531.0 3532.0 3533.0 3534.0 3535.0 3539.0 3541.0 3542.0 3543.0 3544.0 3546.0 3547.0 3548.0 3549.0 3550.0 3551.0 3552.0 3554.0 3555.0 3556.0 3557.0 3561.0 3562.0 3563.0 3564.0 3565.0 3566.0 3569.0 3571.0 3572.0 3573.0 3574.0 3576.0 3577.0 3578.0 3579.0 3581.0 3582.0 3583.0 3584.0 3585.0 3586.0 3587.0 3588.0 3589.0 3591.0 3592.0 3594.0 3596.0 3597.0 3598.0 3599.0 3600.0 3603.0 3605.0 3606.0 3607.0 3608.0 3610.0 3612.0 3614.0 3615.0 3616.0 3617.0 3619.0 3621.0 3622.0 3623.0 3624.0 3625.0 3627.0 3628.0 3629.0 3632.0 3633.0 3634.0 3635.0 3636.0 3637.0 3640.0 3641.0 3642.0 3643.0 3644.0 3646.0 3648.0 3649.0 3650.0 3651.0 3652.0 3653.0 3654.0 3655.0 3656.0 3658.0 3661.0 3662.0 3663.0 3664.0 3666.0 3668.0 3669.0 3670.0 3671.0 3673.0 3674.0 3678.0 3681.0 3682.0 3683.0 3684.0 3685.0 3691.0 3697.0 3700.0 3702.0 3704.0 3705.0 3706.0 3709.0 3711.0 3716.0 3717.0 3719.0 3722.0 3725.0 3726.0 3727.0 3728.0 3729.0 3730.0 3731.0 3732.0 3733.0 3735.0 3736.0 3738.0 3739.0 3740.0 3741.0 3744.0 3745.0 3746.0 3749.0 3750.0 3751.0 3753.0 3755.0 3756.0 3757.0 3759.0 3763.0 3764.0 3766.0 3767.0 3769.0 3770.0 3771.0 3774.0 3775.0 3776.0 3777.0 3779.0 3781.0 3782.0 3784.0 3787.0 3789.0 3790.0 3794.0 3795.0 3799.0 3800.0 3801.0 3803.0 3804.0 3805.0 3806.0 3811.0 3813.0 3814.0 3815.0 3816.0 3817.0 3818.0 3819.0 3820.0 3821.0 3823.0 3824.0 3825.0 3826.0 3828.0 3829.0 3832.0 3834.0 3835.0 3836.0 3837.0 3838.0 3841.0 3843.0 3844.0 3846.0 3851.0 3852.0 3853.0 3856.0 3857.0 3858.0 3859.0 3863.0 3864.0 3866.0 3867.0 3869.0 3870.0 3871.0 3873.0 3875.0 3877.0 3879.0 3882.0 3884.0 3886.0 3887.0 3891.0 3892.0 3893.0 3894.0 3899.0 3900.0 3902.0 3905.0 3906.0 3907.0 3908.0 3911.0 3912.0 3915.0 3917.0 3918.0 3920.0 3921.0 3923.0 3925.0 3926.0 3927.0 3932.0 3933.0 3934.0 3936.0 3938.0 3939.0 3942.0 3947.0 3953.0 3954.0 3955.0 3961.0 3967.0 3969.0 3970.0 3971.0 3972.0 3978.0 3982.0 3983.0 3984.0 3986.0 3993.0 3994.0 3996.0 3998.0 4000.0 4001.0 4012.0 4013.0 4015.0 4017.0 4018.0 4020.0 4022.0 4023.0 4028.0 4031.0 4033.0 4034.0 4037.0 4038.0 4039.0 4040.0 4042.0 4043.0 4044.0 4047.0 4049.0 4052.0 4054.0 4055.0 4056.0 4057.0 4059.0 4060.0 4061.0 4062.0 4063.0 4068.0 4072.0 4074.0 4077.0 4078.0 4081.0 4085.0 4087.0 4091.0 4093.0 4096.0 4097.0 4100.0 4101.0 4102.0 4106.0 4108.0 4111.0 4115.0 4119.0 4120.0 4122.0 4124.0 4126.0 4127.0 4129.0 4130.0 4131.0 4133.0 4136.0 4138.0 4139.0 4140.0 4141.0 4143.0 4145.0 4147.0 4151.0 4153.0 4158.0 4160.0 4161.0 4162.0 4164.0 4165.0 4168.0 4170.0 4171.0 4172.0 4174.0 4175.0 4179.0 4180.0 4181.0 4183.0 4187.0 4188.0 4189.0 4190.0 4192.0 4196.0 4197.0 4201.0 4202.0 4203.0 4204.0 4205.0 4206.0 4209.0 4211.0 4216.0 4218.0 4220.0 4221.0 4222.0 4227.0 4228.0 4229.0 4232.0 4233.0 4236.0 4237.0 4238.0 4239.0 4241.0 4244.0 4245.0 4247.0 4249.0 4252.0 4256.0 4257.0 4259.0 4262.0 4263.0 4264.0 4266.0 4267.0 4268.0 4269.0 4273.0 4274.0 4276.0 4277.0 4279.0 4281.0 4283.0 4284.0 4287.0 4288.0 4291.0 4294.0 4295.0 4296.0 4299.0 4300.0 4301.0 4304.0 4309.0 4310.0 4312.0 4313.0 4314.0 4315.0 4318.0 4322.0 4323.0 4328.0 4329.0 4331.0 4332.0 4337.0 4338.0 4339.0 4340.0 4342.0 4343.0 4346.0 4349.0 4351.0 4354.0 4357.0 4359.0 4360.0 4361.0 4362.0 4363.0 4364.0 4368.0 4370.0 4371.0 4373.0 4375.0 4376.0 4377.0 4382.0 4383.0 4386.0 4387.0 4388.0 4390.0 4391.0 4392.0 4393.0 4394.0 4400.0 4401.0 4406.0 4411.0 4412.0 4415.0 4416.0 4421.0 4423.0 4424.0 4426.0 4428.0 4429.0 4431.0 4432.0 4437.0 4438.0 4440.0 4442.0 4443.0 4444.0 4447.0 4449.0 4452.0 4454.0 4456.0 4458.0 4459.0 4462.0 4463.0 4464.0 4466.0 4471.0 4473.0 4474.0 4477.0 4479.0 4480.0 4484.0 4486.0 4491.0 4492.0 4493.0 4494.0 4499.0 4500.0 4502.0 4503.0 4506.0 4507.0 4510.0 4512.0 4514.0 4516.0 4520.0 4521.0 4522.0 4524.0 4526.0 4527.0 4529.0 4530.0 4539.0 4540.0 4542.0 4543.0 4545.0 4546.0 4547.0 4548.0 4549.0 4550.0 4551.0 4558.0 4559.0 4561.0 4563.0 4565.0 4569.0 4571.0 4574.0 4576.0 4577.0 4578.0 4580.0 4583.0 4584.0 4585.0 4587.0 4588.0 4589.0 4593.0 4602.0 4603.0 4604.0 4605.0 4607.0 4611.0 4613.0 4615.0 4616.0 4620.0 4621.0 4626.0 4627.0 4628.0 4631.0 4632.0 4633.0 4635.0 4636.0 4639.0 4640.0 4641.0 4642.0 4647.0 4648.0 4649.0 4650.0 4653.0 4654.0 4655.0 4657.0 4658.0 4660.0 4661.0 4662.0 4664.0 4665.0 4669.0 4672.0 4674.0 4675.0 4682.0 4686.0 4687.0 4689.0 4691.0 4692.0 4694.0 4695.0 4702.0 4703.0 4704.0 4705.0 4706.0 4708.0 4709.0 4711.0 4715.0 4716.0 4725.0 4727.0 4731.0 4734.0 4736.0 4739.0 4741.0 4747.0 4749.0 4750.0 4753.0 4757.0 4759.0 4761.0 4762.0 4767.0 4769.0 4772.0 4773.0 4775.0 4776.0 4779.0 4780.0 4781.0 4786.0 4795.0 4799.0 4800.0 4801.0 4804.0 4807.0 4810.0 4812.0 4814.0 4816.0 4817.0 4820.0 4824.0 4826.0 4828.0 4831.0 4832.0 4833.0 4834.0 4836.0 4837.0 4838.0 4842.0 4847.0 4849.0 4850.0 4853.0 4854.0 4855.0 4856.0 4860.0 4861.0 4863.0 4866.0 4867.0 4868.0 4869.0 4870.0 4871.0 4874.0 4877.0 4881.0 4882.0 4890.0 4891.0 4892.0 4893.0 4901.0 4909.0 4911.0 4913.0 4916.0 4917.0 4918.0 4920.0 4937.0 4942.0 4945.0 4954.0 4964.0 4967.0 4970.0 4974.0 4975.0 4976.0 4977.0 4982.0 4983.0 4985.0 4987.0 4988.0 4989.0 4991.0 5001.0 5003.0 5005.0 5007.0 5009.0 5011.0 5017.0 5022.0 5023.0 5028.0 5034.0 5046.0 5047.0 5049.0 5050.0 5054.0 5057.0 5058.0 5059.0 5062.0 5065.0 5068.0 5069.0 5070.0 5071.0 5073.0 5074.0 5075.0 5078.0 5081.0 5083.0 5085.0 5086.0 5087.0 5089.0 5090.0 5093.0 5099.0 5103.0 5104.0 5110.0 5116.0 5118.0 5123.0 5125.0 5127.0 5128.0 5130.0 5136.0 5137.0 5139.0 5141.0 5143.0 5144.0 5150.0 5151.0 5156.0 5159.0 5168.0 5170.0 5174.0 5180.0 5181.0 5182.0 5186.0 5188.0 5190.0 5192.0 5194.0 5195.0 5199.0 5200.0 5202.0 5203.0 5204.0 5208.0 5213.0 5220.0 5223.0 5227.0 5228.0 5229.0 5232.0 5234.0 5235.0 5236.0 5238.0 5246.0 5248.0 5249.0 5251.0 5254.0 5255.0 5257.0 5260.0 5265.0 5267.0 5271.0 5274.0 5278.0 5279.0 5288.0 5289.0 5290.0 5292.0 5296.0 5299.0 5300.0 5306.0 5308.0 5313.0 5318.0 5321.0 5324.0 5332.0 5339.0 5346.0 5356.0 5362.0 5364.0 5365.0 5366.0 5367.0 5376.0 5378.0 5379.0 5380.0 5382.0 5385.0 5387.0 5389.0 5390.0 5392.0 5393.0 5396.0 5398.0 5399.0 5410.0 5417.0 5418.0 5423.0 5427.0 5431.0 5434.0 5435.0 5439.0 5440.0 5442.0 5444.0 5447.0 5449.0 5450.0 5452.0 5456.0 5463.0 5466.0 5470.0 5475.0 5476.0 5479.0 5487.0 5488.0 5489.0 5497.0 5498.0 5500.0 5501.0 5502.0 5509.0 5511.0 5515.0 5522.0 5525.0 5528.0 5530.0 5531.0 5539.0 5544.0 5546.0 5547.0 5549.0 5550.0 5552.0 5553.0 5554.0 5555.0 5559.0 5563.0 5565.0 5567.0 5571.0 5575.0 5580.0 5581.0 5583.0 5585.0 5590.0 5592.0 5596.0 5599.0 5601.0 5602.0 5605.0 5608.0 5609.0 5617.0 5618.0 5620.0 5623.0 5627.0 5630.0 5632.0 5635.0 5636.0 5638.0 5641.0 5645.0 5657.0 5662.0 5668.0 5677.0 5679.0 5681.0 5694.0 5698.0 5700.0 5708.0 5711.0 5712.0 5713.0 5718.0 5719.0 5721.0 5723.0 5726.0 5732.0 5733.0 5735.0 5741.0 5742.0 5743.0 5748.0 5753.0 5755.0 5756.0 5757.0 5765.0 5766.0 5771.0 5773.0 5774.0 5775.0 5777.0 5779.0 5780.0 5781.0 5783.0 5786.0 5789.0 5801.0 5804.0 5808.0 5809.0 5814.0 5817.0 5819.0 5820.0 5836.0 5842.0 5845.0 5846.0 5849.0 5851.0 5853.0 5855.0 5857.0 5858.0 5859.0 5860.0 5861.0 5863.0 5864.0 5867.0 5868.0 5871.0 5873.0 5874.0 5879.0 5886.0 5893.0 5895.0 5896.0 5897.0 5900.0 5915.0 5918.0 5923.0 5927.0 5955.0 5956.0 5958.0 5959.0 5971.0 5972.0 5973.0 5974.0 5978.0 5979.0 5983.0 5989.0 5992.0 5997.0 6000.0 6011.0 6014.0 6015.0 6017.0 6019.0 6030.0 6032.0 6037.0 6044.0 6045.0 6050.0 6051.0 6061.0 6064.0 6076.0 6085.0 6091.0 6092.0 6094.0 6095.0 6108.0 6109.0 6110.0 6111.0 6112.0 6113.0 6123.0 6138.0 6140.0 6144.0 6148.0 6151.0 6152.0 6156.0 6161.0 6166.0 6171.0 6180.0 6182.0 6183.0 6192.0 6193.0 6194.0 6195.0 6211.0 6214.0 6219.0 6220.0 6225.0 6228.0 6230.0 6232.0 6235.0 6236.0 6242.0 6250.0 6251.0 6257.0 6259.0 6260.0 6266.0 6271.0 6279.0 6284.0 6290.0 6291.0 6295.0 6303.0 6307.0 6308.0 6312.0 6316.0 6318.0 6330.0 6336.0 6337.0 6342.0 6354.0 6360.0 6368.0 6369.0 6370.0 6371.0 6379.0 6381.0 6383.0 6390.0 6400.0 6406.0 6419.0 6423.0 6425.0 6428.0 6440.0 6450.0 6458.0 6460.0 6461.0 6469.0 6470.0 6476.0 6478.0 6487.0 6494.0 6497.0 6498.0 6506.0 6509.0 6512.0 6513.0 6522.0 6530.0 6544.0 6550.0 6551.0 6558.0 6559.0 6566.0 6568.0 6574.0 6580.0 6591.0 6593.0 6596.0 6600.0 6603.0 6610.0 6611.0 6613.0 6615.0 6619.0 6627.0 6628.0 6633.0 6650.0 6661.0 6676.0 6678.0 6680.0 6697.0 6700.0 6704.0 6708.0 6709.0 6710.0 6711.0 6713.0 6714.0 6718.0 6733.0 6735.0 6747.0 6750.0 6756.0 6761.0 6766.0 6768.0 6769.0 6777.0 6779.0 6785.0 6788.0 6795.0 6819.0 6823.0 6825.0 6859.0 6866.0 6886.0 6914.0 6917.0 6918.0 6919.0 6920.0 6922.0 6926.0 6933.0 6936.0 6938.0 6943.0 6945.0 6952.0 6955.0 6962.0 6969.0 6988.0 6989.0 6994.0 7000.0 7007.0 7009.0 7012.0 7014.0 7022.0 7024.0 7027.0 7028.0 7043.0 7044.0 7046.0 7056.0 7094.0 7098.0 7099.0 7104.0 7126.0 7127.0 7133.0 7137.0 7144.0 7156.0 7157.0 7162.0 7166.0 7182.0 7185.0 7195.0 7200.0 7201.0 7202.0 7204.0 7206.0 7211.0 7213.0 7218.0 7224.0 7225.0 7226.0 7229.0 7242.0 7246.0 7251.0 7259.0 7273.0 7280.0 7283.0 7294.0 7301.0 7325.0 7340.0 7342.0 7345.0 7351.0 7364.0 7365.0 7366.0 7386.0 7391.0 7399.0 7401.0 7420.0 7423.0 7425.0 7429.0 7454.0 7458.0 7462.0 7463.0 7467.0 7472.0 7482.0 7488.0 7489.0 7494.0 7495.0 7499.0 7500.0 7516.0 7528.0 7548.0 7550.0 7559.0 7564.0 7566.0 7569.0 7572.0 7586.0 7595.0 7597.0 7606.0 7607.0 7608.0 7609.0 7613.0 7632.0 7636.0 7651.0 7652.0 7662.0 7665.0 7666.0 7680.0 7682.0 7689.0 7691.0 7692.0 7700.0 7701.0 7709.0 7718.0 7737.0 7751.0 7752.0 7759.0 7768.0 7773.0 7774.0 7775.0 7805.0 7810.0 7813.0 7831.0 7835.0 7845.0 7867.0 7871.0 7877.0 7883.0 7886.0 7898.0 7902.0 7916.0 7917.0 7919.0 7920.0 7933.0 7945.0 7947.0 7953.0 7964.0 7966.0 7968.0 7991.0 8004.0 8008.0 8011.0 8014.0 8017.0 8018.0 8020.0 8034.0 8052.0 8065.0 8072.0 8082.0 8083.0 8093.0 8119.0 8130.0 8131.0 8141.0 8154.0 8167.0 8171.0 8178.0 8181.0 8189.0 8197.0 8200.0 8204.0 8210.0 8215.0 8217.0 8222.0 8240.0 8248.0 8272.0 8289.0 8297.0 8320.0 8329.0 8331.0 8337.0 8339.0 8340.0 8345.0 8350.0 8353.0 8355.0 8359.0 8362.0 8364.0 8373.0 8380.0 8398.0 8399.0 8402.0 8417.0 8434.0 8441.0 8465.0 8471.0 8497.0 8509.0 8511.0 8530.0 8531.0 8544.0 8546.0 8547.0 8554.0 8565.0 8582.0 8591.0 8615.0 8620.0 8633.0 8636.0 8651.0 8667.0 8669.0 8695.0 8696.0 8705.0 8738.0 8744.0 8746.0 8758.0 8762.0 8767.0 8769.0 8779.0 8784.0 8802.0 8806.0 8816.0 8824.0 8833.0 8839.0 8850.0 8861.0 8883.0 8886.0 8887.0 8891.0 8914.0 8943.0 8945.0 8953.0 8954.0 8960.0 8983.0 8987.0 8989.0 8991.0 8999.0 9010.0 9017.0 9038.0 9050.0 9069.0 9084.0 9097.0 9142.0 9170.0 9180.0 9186.0 9198.0 9199.0 9275.0 9282.0 9301.0 9311.0 9343.0 9348.0 9355.0 9358.0 9381.0 9399.0 9400.0 9404.0 9421.0 9444.0 9445.0 9452.0 9453.0 9499.0 9501.0 9502.0 9504.0 9506.0 9516.0 9528.0 9532.0 9541.0 9545.0 9589.0 9615.0 9629.0 9630.0 9670.0 9678.0 9685.0 9726.0 9738.0 9742.0 9763.0 9792.0 9796.0 9800.0 9839.0 9864.0 9876.0 9887.0 9932.0 9942.0 9943.0 9945.0 9974.0 9975.0 9999.0 10000.0 10011.0 10017.0 10020.0 10034.0 10082.0 10085.0 10092.0 10099.0 10102.0 10110.0 10122.0 10128.0 10130.0 10145.0 10151.0 10154.0 10156.0 10170.0 10178.0 10203.0 10213.0 10240.0 10282.0 10284.0 10300.0 10311.0 10362.0 10366.0 10368.0 10370.0 10390.0 10413.0 10439.0 10453.0 10455.0 10470.0 10489.0 10491.0 10504.0 10547.0 10556.0 10568.0 10574.0 10581.0 10586.0 10590.0 10592.0 10595.0 10597.0 10598.0 10617.0 10623.0 10625.0 10640.0 10664.0 10666.0 10673.0 10698.0 10723.0 10726.0 10731.0 10733.0 10737.0 10759.0 10776.0 10778.0 10833.0 10846.0 10854.0 10863.0 10866.0 10867.0 10877.0 10908.0 10939.0 10944.0 10946.0 10947.0 10992.0 11000.0 11002.0 11004.0 11022.0 11048.0 11081.0 11112.0 11117.0 11126.0 11152.0 11164.0 11171.0 11180.0 11214.0 11224.0 11232.0 11237.0 11248.0 11269.0 11302.0 11318.0 11350.0 11351.0 11403.0 11405.0 11443.0 11447.0 11459.0 11473.0 11477.0 11492.0 11498.0 11504.0 11531.0 11552.0 11567.0 11594.0 11597.0 11600.0 11632.0 11686.0 11690.0 11698.0 11706.0 11718.0 11720.0 11762.0 11828.0 11830.0 11844.0 11945.0 11950.0 12006.0 12011.0 12016.0 12021.0 12062.0 12071.0 12089.0 12091.0 12128.0 12151.0 12181.0 12182.0 12193.0 12195.0 12197.0 12209.0 12210.0 12216.0 12258.0 12308.0 12312.0 12320.0 12350.0 12384.0 12418.0 12420.0 12434.0 12449.0 12464.0 12472.0 12487.0 12498.0 12520.0 12541.0 12548.0 12582.0 12590.0 12620.0 12663.0 12679.0 12693.0 12705.0 12719.0 12746.0 12759.0 12770.0 12782.0 12800.0 12815.0 12842.0 12855.0 12882.0 12920.0 12951.0 12953.0 13000.0 13002.0 13005.0 13006.0 13061.0 13091.0 13113.0 13128.0 13145.0 13176.0 13205.0 13228.0 13265.0 13270.0 13309.0 13319.0 13322.0 13333.0 13357.0 13426.0 13459.0 13499.0 13525.0 13534.0 13597.0 13694.0 13706.0 13735.0 13760.0 13781.0 13790.0 13792.0 13804.0 13810.0 13816.0 13823.0 13831.0 13860.0 13883.0 13992.0 14003.0 14008.0 14053.0 14082.0 14122.0 14132.0 14154.0 14164.0 14253.0 14299.0 14306.0 14335.0 14356.0 14436.0 14470.0 14473.0 14651.0 14659.0 14690.0 14793.0 14820.0 14909.0 14967.0 14993.0 15049.0 15087.0 15112.0 15114.0 15117.0 15137.0 15146.0 15147.0 15185.0 15200.0 15223.0 15235.0 15239.0 15252.0 15282.0 15307.0 15309.0 15339.0 15345.0 15423.0 15465.0 15494.0 15503.0 15541.0 15544.0 15576.0 15588.0 15608.0 15662.0 15706.0 15731.0 15752.0 15773.0 15832.0 15849.0 15861.0 15903.0 15907.0 15948.0 16018.0 16027.0 16076.0 16105.0 16108.0 16116.0 16295.0 16305.0 16312.0 16324.0 16374.0 16375.0 16381.0 16391.0 16419.0 16424.0 16439.0 16522.0 16566.0 16573.0 16592.0 16616.0 16648.0 16702.0 16725.0 16734.0 16739.0 16807.0 16812.0 16829.0 16895.0 16904.0 16947.0 16982.0 16990.0 17115.0 17130.0 17137.0 17216.0 17283.0 17310.0 17328.0 17403.0 17476.0 17561.0 17582.0 17809.0 17827.0 17977.0 18012.0 18049.0 18103.0 18117.0 18135.0 18414.0 18522.0 18539.0 18544.0 18600.0 18698.0 18728.0 18779.0 18838.0 18841.0 18907.0 18964.0 19165.0 19190.0 19348.0 19372.0 19376.0 19385.0 19417.0 19619.0 19705.0 19718.0 19833.0 19898.0 19919.0 20000.0 20003.0 20074.0 20118.0 20168.0 20233.0 20251.0 20265.0 20270.0 20312.0 20393.0 20436.0 20712.0 20876.0 20923.0 20935.0 20987.0 21086.0 21139.0 21338.0 21342.0 21375.0 21382.0 21425.0 21536.0 21540.0 21572.0 21621.0 21648.0 21670.0 21686.0 21711.0 21730.0 21902.0 22143.0 22170.0 22370.0 22659.0 22809.0 22851.0 22867.0 23085.0 23174.0 23188.0 23277.0 23284.0 23304.0 23305.0 23462.0 23561.0 23670.0 23792.0 23830.0 23859.0 23931.0 23947.0 23961.0 23970.0 24097.0 24251.0 24266.0 24283.0 24607.0 24612.0 24619.0 24657.0 24663.0 24774.0 24958.0 25018.0 25118.0 25140.0 25575.0 25763.0 25901.0 26059.0 26064.0 26090.0 26101.0 26148.0 26284.0 26642.0 26723.0 26767.0 26787.0 26802.0 26933.0 26974.0 27058.0 27211.0 27229.0 27287.0 27486.0 28004.0 28108.0 28151.0 28153.0 28219.0 28397.0 28722.0 28851.0 28859.0 28945.0 28980.0 29001.0 29317.0 29701.0 29821.0 29849.0 29856.0 29924.0 29947.0 30226.0 30230.0 30566.0 30605.0 30614.0 31019.0 31199.0 31229.0 31427.0 31594.0 31600.0 31617.0 31800.0 31834.0 31944.0 32080.0 32135.0 32200.0 32460.0 32942.0 32990.0 33200.0 33278.0 33305.0 33529.0 33996.0 34180.0 34243.0 34272.0 34328.0 34674.0 35144.0 35203.0 35323.0 36052.0 36098.0 36310.0 36365.0 36479.0 36970.0 37419.0 37585.0 38278.0 38654.0 38765.0 39332.0 39369.0 39790.0 39826.0 39865.0 40024.0 40100.0 40695.0 40946.0 41112.0 41216.0 41805.0 43001.0 43647.0 43864.0 44119.0 44236.0 44472.0 44570.0 45189.0 45407.0 45544.0 45704.0 47147.0 47630.0 47632.0 48016.0 48199.0 48808.0 49889.0 50559.0 52611.0 53395.0 54061.0 54600.0 55045.0 55784.0 56134.0 56650.0 56884.0 59695.0 60180.0 60845.0 60849.0 60877.0 61012.0 61440.0 61947.0 63627.0 64223.0 66761.0 69301.0 71852.0 72776.0 73481.0 73771.0 75414.0 78496.0 79144.0 80056.0 80721.0 82016.0 82773.0 82806.0 82951.0 84980.0 88079.0 100761.0 103150.0 107031.0 109484.0 109889.0 110185.0 112009.0 114672.0 123065.0 125471.0 128654.0 129595.0 131733.0 144559.0 146411.0 165902.0 169596.0 172496.0 176133.0 203165.0 227829.0 257978.0 320725.0 324663.0 352698.0</br>User Count: 1892<br>Item Count: 17632<br>Record Count: 92834<br>Global Mean: 0.0121729428656</div>
+<div class='text'>Rating Scale: 0.5 1.0 1.5 2.0 2.5 3.0 3.5 4.0</br>User Count: 1508<br>Item Count: 2071<br>Record Count: 35497<br>Global Mean: 3.11</div>
 <center><div class='img'><img src='images/rh.png' width='640px' height='480px'/></div></center>
 <center><div class='img'><img src='images/rcu.png' width='640px' height='480px'/></div></center>
 <center><div class='img'><img src='images/rci.png' width='640px' height='480px'/></div></center>

diff --git a/visual/display.py b/visual/display.py
@@ -3,6 +3,7 @@ from tool.config import Config
 from data.rating import RatingDAO
 from data.social import SocialDAO
 from tool.file import FileIO
+from tool.qmath import denormalize
 from os.path import abspath
 import webbrowser
 
@@ -64,7 +65,8 @@ class Display(object):
             html+="<div class='area1'><div class='title'><h3>Rating Data</h3></div>\n"
             html += "<div class='text'>Rating Scale: {scale}</br>".format(scale=' '.join([str(item) for item in self.dao.rScale]))
             html += "User Count: {user}<br>Item Count: {item}<br>Record Count: {record}<br>Global Mean: {mean}</div>\n"\
-                .format(user = str(len(self.dao.user)),item=str(len(self.dao.item)),record = str(len(self.dao.trainingData)),mean = str(self.dao.globalMean))
+                .format(user = str(len(self.dao.user)),item=str(len(self.dao.item)),record = str(len(self.dao.trainingData)),
+                        mean = str(round(denormalize(self.dao.globalMean,self.dao.rScale[-1],self.dao.rScale[0]),3)))
             html+="<center><div class='img'><img src='images/rh.png' width='640px' height='480px'/></div></center>\n"
             html += "<center><div class='img'><img src='images/rcu.png' width='640px' height='480px'/></div></center>\n"
             html += "<center><div class='img'><img src='images/rci.png' width='640px' height='480px'/></div></center>\n"

diff --git a/main/main.py b/main/main.py
@@ -11,6 +11,7 @@ from algorithm.rating.SVD import SVD
 from tool.config import Config
 from visual.display import Display
 
+
 if __name__ == '__main__':
     print '='*80
     print '   RecQ: An effective python-based recommender algorithm library.   '
@@ -24,6 +25,11 @@ if __name__ == '__main__':
     import time
     s = time.clock()
     if order == 0:
+        try:
+            import seaborn as sns
+        except ImportError:
+            print '!!!To obtain nice data charts, ' \
+                  'we strongly recommend you to install the third-party package <seaborn>!!!'
         conf = Config('../config/visual/visual.conf')
         Display(conf).render()
         exit(0)

diff --git a/visual/chart.py b/visual/chart.py
@@ -1,6 +1,5 @@
 import matplotlib.pyplot as plt
 import numpy as np
-import seaborn as sns
 import os
 import os.path
 class Chart(object):
